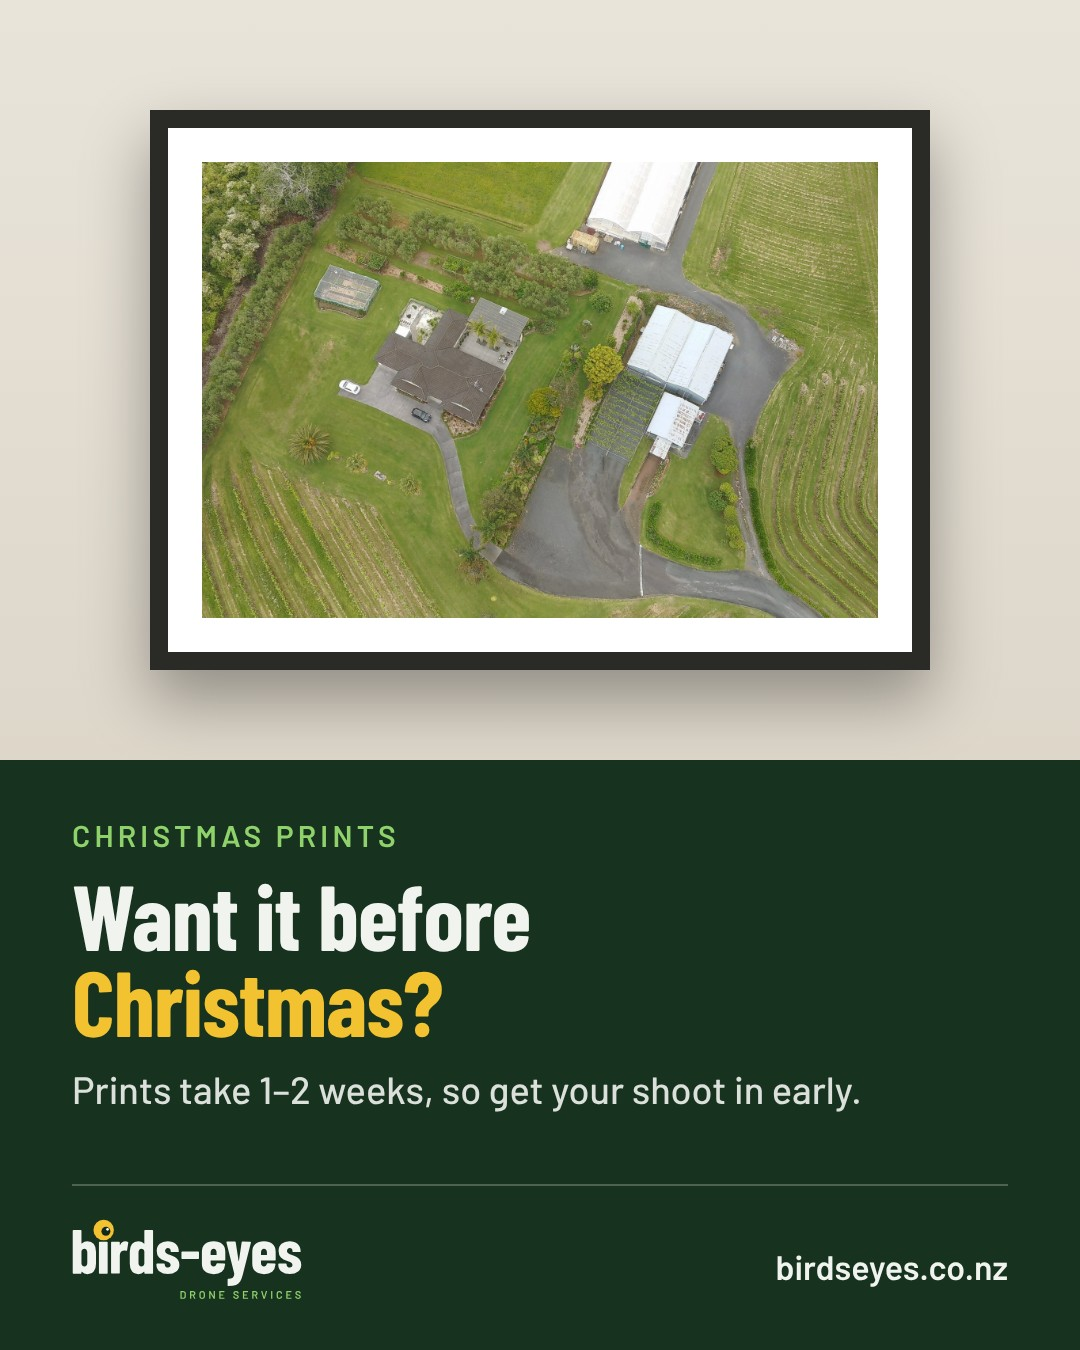
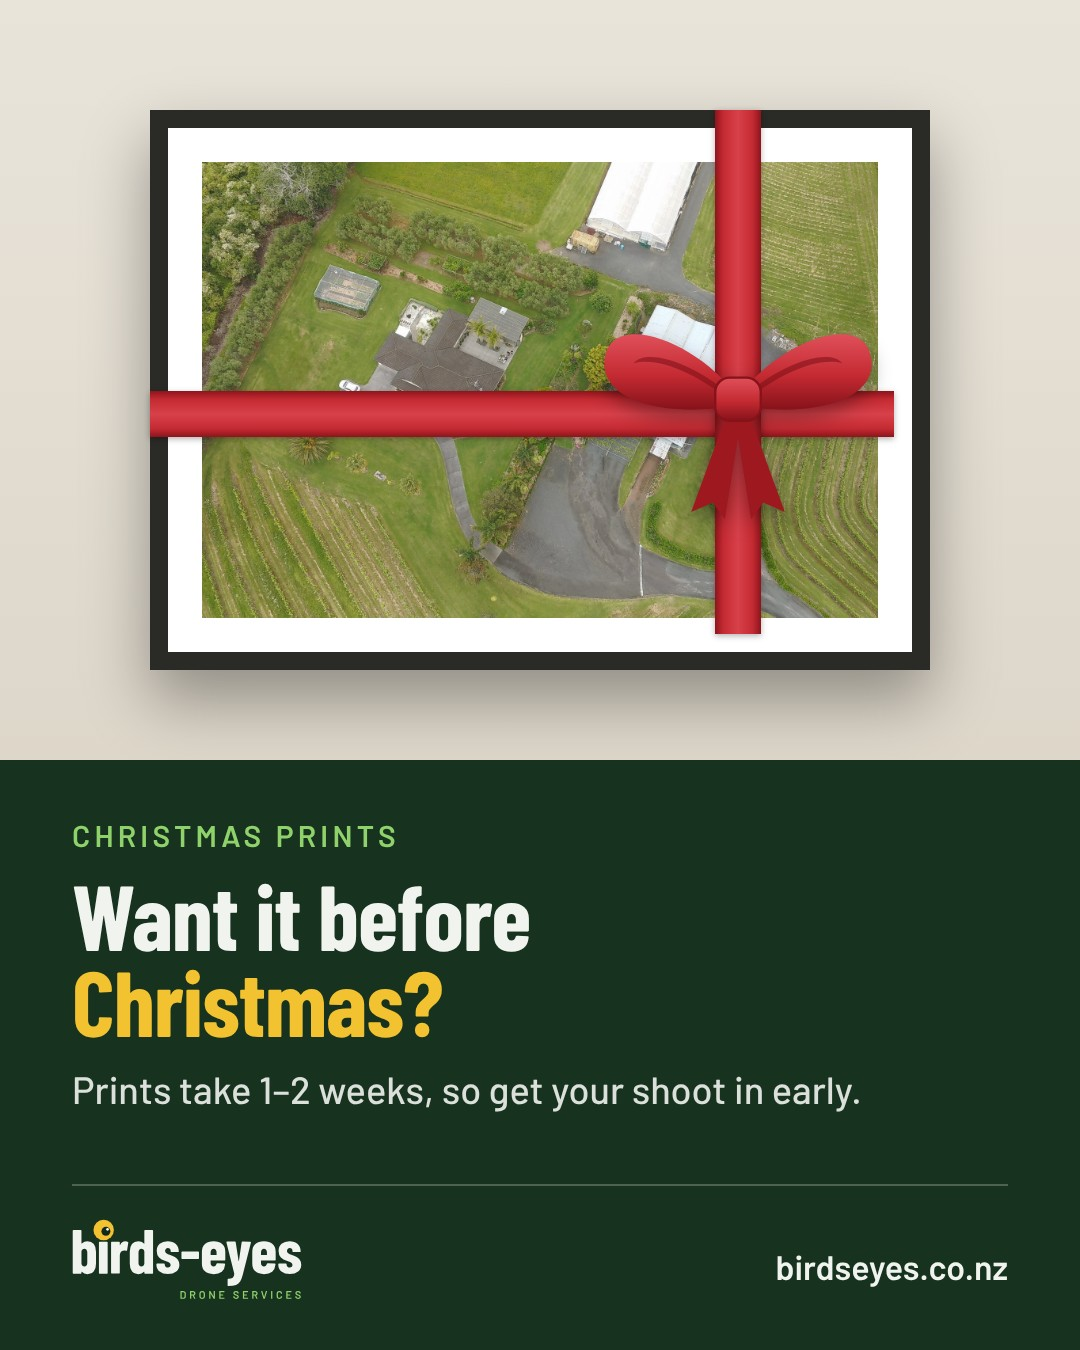
Add Christmas ribbon to the Christmas Instagram posts
Claude-Session: https://claude.ai/code/session_01HgtfRQ1YLVPGwD9ZEWdpTe

Changed region(s): [[0.1222, 0.0622, 0.825, 0.4978]]

diff --git a/brand/generator/template.html b/brand/generator/template.html
@@ -42,6 +42,11 @@ body { background:#777; font-family:B; }
 .light .ticks li::before { border-color:#2E6B3F; }
 .frame { position:absolute; background:#fff; padding:34px; box-shadow:0 30px 60px rgba(0,0,0,.35); }
 .frame div { width:100%; height:100%; background-size:cover; background-position:center; }
+.ribbon { position:absolute; inset:-18px; pointer-events:none; }
+.ribbon .v, .ribbon .hz { position:absolute; background:linear-gradient(90deg,#8E141C 0,#C42A32 18%,#D8414A 50%,#C42A32 82%,#8E141C 100%); box-shadow:0 2px 6px rgba(0,0,0,.3); }
+.ribbon .v { top:0; bottom:0; width:46px; left:calc(79% - 23px); }
+.ribbon .hz { left:0; right:0; height:46px; top:calc(58% - 23px); background:linear-gradient(180deg,#8E141C 0,#C42A32 18%,#D8414A 50%,#C42A32 82%,#8E141C 100%); }
+.ribbon svg { position:absolute; width:300px; height:252px; left:calc(79% - 150px); top:calc(58% - 142px); filter:drop-shadow(0 8px 10px rgba(0,0,0,.35)); }
 .tag { position:absolute; background:var(--bush); color:var(--paper); font:600 30px/1 B; padding:14px 20px; border-radius:8px; }
 </style></head>
 <body>
@@ -98,7 +103,11 @@ const L = {
     </div>${FOOT()}`,
   // framed print on a wall
   print: o => `<div class="bg" style="inset:0;background:linear-gradient(180deg,#E9E4DA 0%,#DCD5C8 62%,#C9BFAF 62%,#BFB3A1 100%)"></div>
-    <div class="frame" style="left:150px;right:150px;top:110px;height:560px;border:18px solid #2a2a26"><div style="background-image:url(${P(o.photo)})"></div></div>
+    <div class="frame" style="left:150px;right:150px;top:110px;height:560px;border:18px solid #2a2a26"><div style="background-image:url(${P(o.photo)})"></div>${o.ribbon ? `<div class="ribbon"><div class="hz"></div><div class="v"></div><svg viewBox="0 0 250 210"><defs><linearGradient id="rb" x1="0" y1="0" x2="0" y2="1"><stop offset="0" stop-color="#E0505A"/><stop offset=".55" stop-color="#C42A32"/><stop offset="1" stop-color="#86121A"/></linearGradient></defs>
+<path d="M118 112 L86 200 L104 192 L114 206 L128 120 Z" fill="#9E1820"/><path d="M132 112 L164 200 L146 192 L136 206 L122 120 Z" fill="#9E1820"/>
+<path d="M125 105 C95 60 20 30 14 72 C8 112 80 122 125 110 Z" fill="url(#rb)"/><path d="M125 105 C155 60 230 30 236 72 C242 112 170 122 125 110 Z" fill="url(#rb)"/>
+<path d="M120 104 C92 78 50 62 38 76 C60 70 92 86 120 108 Z" fill="#7A0F16" opacity=".55"/><path d="M130 104 C158 78 200 62 212 76 C190 70 158 86 130 108 Z" fill="#7A0F16" opacity=".55"/>
+<rect x="106" y="88" width="38" height="36" rx="12" fill="url(#rb)" stroke="#86121A" stroke-width="2"/></svg></div>` : ''}</div>
     <div class="bg" style="left:0;right:0;top:760px;bottom:0;background:var(--bush)"></div>
     <div style="position:absolute;left:72px;right:72px;top:820px">
       ${o.eyebrow ? `<div class="eyebrow" style="margin-bottom:22px">${o.eyebrow}</div>` : ''}

diff --git a/brand/generator/batch-02.js b/brand/generator/batch-02.js
@@ -14,7 +14,7 @@ window.BATCH = [
  {id:'36-sheds', t:'panel', photo:'glasshouse-container', pos:'50% 60%', h:'Sheds, barns<br><span class="k">and outbuildings</span>', sub:'Show every building on the property, how they’re laid out and how to get to them.'},
  {id:'37-plan-project', t:'light', photo:'lifestyle-block-overhead', pos:'40% 50%', inset:'home-section-wide', h:'Planning a deck,<br>fence or garden?', sub:'An overhead photo shows the whole layout, so you can plan it out before you start.'},
  {id:'38-before-reno', t:'hero', photo:'home-section-wide', pos:'40% 60%', eyebrow:'Renovating?', h:'Capture the<br><span class="k">before</span>', sub:'Get aerial photos before work starts. You’ll want them for the before-and-after.'},
- {id:'39-christmas-prints', t:'print', photo:'lifestyle-block-overhead', eyebrow:'Christmas prints', h:'Want it before<br><span class="k">Christmas?</span>', hs:92, sub:'Prints take 1–2 weeks, so get your shoot in early.'},
+ {id:'39-christmas-prints', t:'print', ribbon:true, photo:'lifestyle-block-overhead', eyebrow:'Christmas prints', h:'Want it before<br><span class="k">Christmas?</span>', hs:92, sub:'Prints take 1–2 weeks, so get your shoot in early.'},
  {id:'40-big-roofs', t:'panel', photo:'glasshouse-paddock', h:'Big roofs<br><span class="k">are no problem</span>', sub:'Sheds, glasshouses and commercial roofs can be checked from above without anyone climbing up.', chip:'Roof checks'},
  {id:'41-west-auckland', t:'card', eyebrow:'Local business', h:'Based in<br><span class="k">West Auckland</span>', sub:'A local drone photography business covering most of urban Auckland. Check your address in the quote form.', strip:['lifestyle-block-wide','home-pool-overhead','packing-shed-vines'], sh:300},
  {id:'42-website-photos', t:'light', photo:'glasshouse-container', inset:'packing-shed-vines', h:'Photos for your<br>business website', sub:'Aerial shots make your site, socials and Google Business profile stand out.'},

diff --git a/brand/generator/batch-01.js b/brand/generator/batch-01.js
@@ -17,7 +17,7 @@ window.BATCH = [
  {id:'19-orchards', t:'panel', photo:'packing-shed-vines', h:'Vineyards, orchards<br><span class="k">and farms</span>', sub:'Rows, sheds and the lay of the land, captured in photos and 4K video.'},
  {id:'20-selling-privately', t:'light', photo:'home-pool-angled', inset:'home-pool-overhead', h:'Selling privately?<br>Look professional.', sub:'Aerial photos make a private listing stand out on Trade Me and social media.'},
  {id:'21-insurance', t:'light', photo:'shed-roofs-pergola', inset:'roof-closeup-rust', ipos:'55% 50%', h:'Clear roof photos<br>for your insurer', sub:'Photos and video of the whole roof, plus close-ups of any damage.', tag:'$90 roof check'},
- {id:'22-christmas', t:'print', photo:'home-pool-overhead', eyebrow:'Gift idea', h:'The family home,<br><span class="k">from above</span>', hs:92, sub:'A framed aerial print makes a gift nobody else will give.'},
+ {id:'22-christmas', t:'print', ribbon:true, photo:'home-pool-overhead', eyebrow:'Gift idea', h:'The family home,<br><span class="k">from above</span>', hs:92, sub:'A framed aerial print makes a gift nobody else will give.'},
  {id:'23-summer', t:'hero', photo:'lifestyle-block-overhead', h:'Summer is the<br>time to <span class="k">shoot</span>', sub:'Green lawns, blue pools and long days. Your property never looks better from above.', eyebrow:'Book for summer'},
  {id:'24-agents', t:'panel', photo:'home-pool-angled', h:'Real estate agents:<br><span class="k">aerials for every listing</span>', hs:96, ticks:['Delivered by download link','Vendors don’t need to be home','Photos and 4K video for listings and socials']}
 ];

diff --git a/brand/generator/render.js b/brand/generator/render.js
@@ -7,7 +7,7 @@
 //   light : photo, h, hs?, sub?, inset?, ipos?, tag?, ticks?, pos?
 //   card  : h, hs?, eyebrow?, sub?, steps?|list?|ticks?, strip? (photo names), sh?
 //   grid  : photos (4 names), h, hs?, sub?
-//   print : photo, h, hs?, eyebrow?, sub?
+//   print : photo, h, hs?, eyebrow?, sub?, ribbon? (true adds a Christmas ribbon and bow)
 // Photo names are files in assets/photos without "-2048.jpg", e.g. "home-pool-overhead".
 // Use <span class="k">...</span> in h for the yellow highlight and <br> for line breaks.
 const path = require('path');

diff --git a/brand/generator/RULES.md b/brand/generator/RULES.md
@@ -17,6 +17,7 @@ Used by the daily Instagram top-up when the list of ready-made posts runs out.
 - Only use the aerial photos in `assets/photos` (names without `-2048.jpg`).
 - Only state facts that are on the website: prices (house shoot 5–10 photos $75, house shoot with video 10–20 photos + 30–90 s of 4K video $105, roof and property overview $90, small commercial 20–40 photos + 2–5 min of 4K video $135; prints A3 $20, A2 $32, A1 $45 matte, gloss +$5, framed +$40, 1–2 weeks), delivery by download link, the client doesn't need to be home, CAA Part 101 and airspace checked for every address, estimates confirmed by email before booking.
 - Don’t keep saying “edited photos”: just say “photos”.
+- Christmas or gift posts: use the `print` layout with `ribbon:true` (adds a red ribbon and bow).
 - No made-up reviews, testimonials, client names, statistics or turnaround times.
 - Don't repeat an existing post's headline. Pick topics that haven't been covered, or a fresh angle on one that has. Seasonal topics should suit the date they'll post (Auckland seasons; no Christmas posts after 12 December).
 - Captions: first person, friendly and plain, 2–4 short sentences, end with "Link in bio." (or similar), then 5 hashtags including #dronephotography and #auckland.
